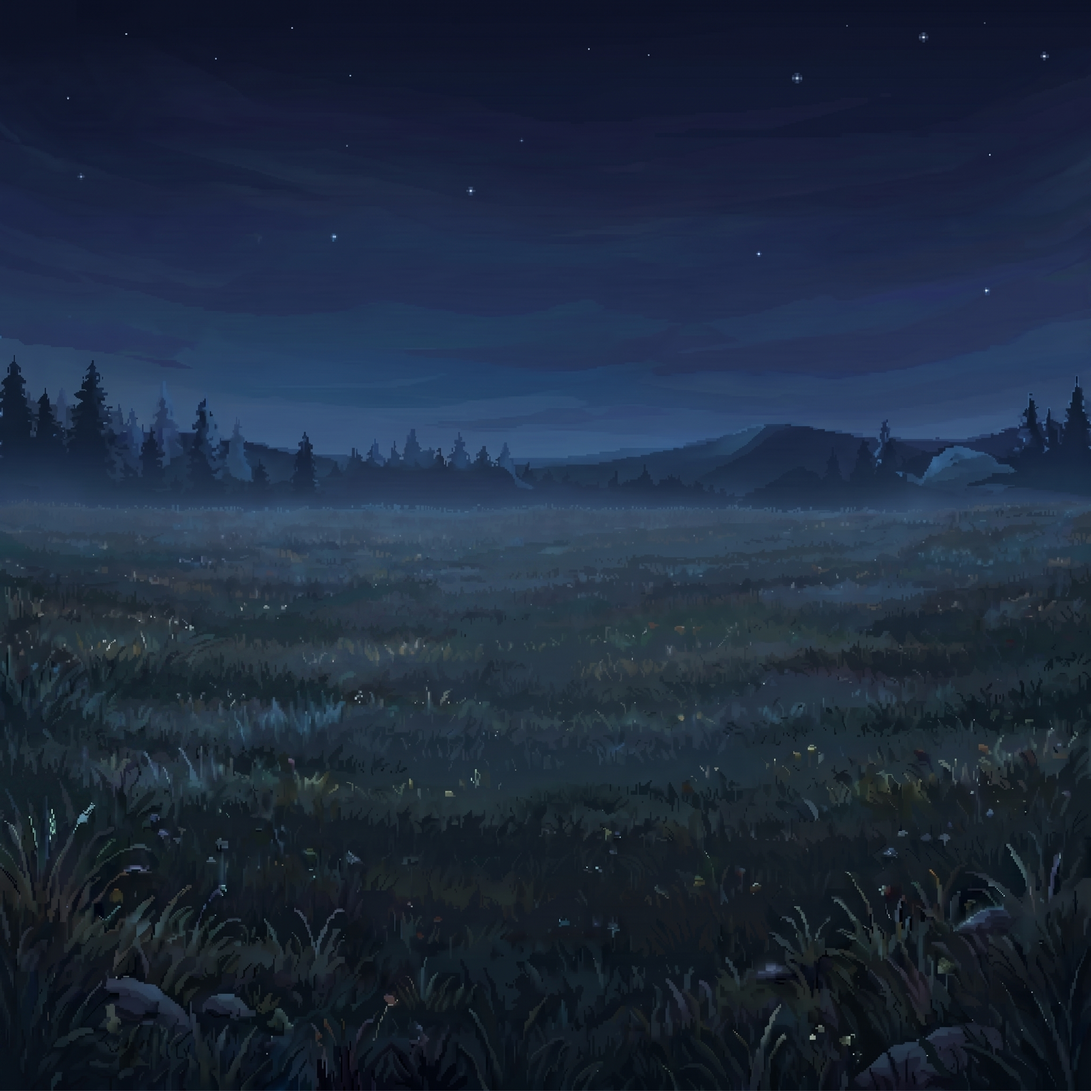
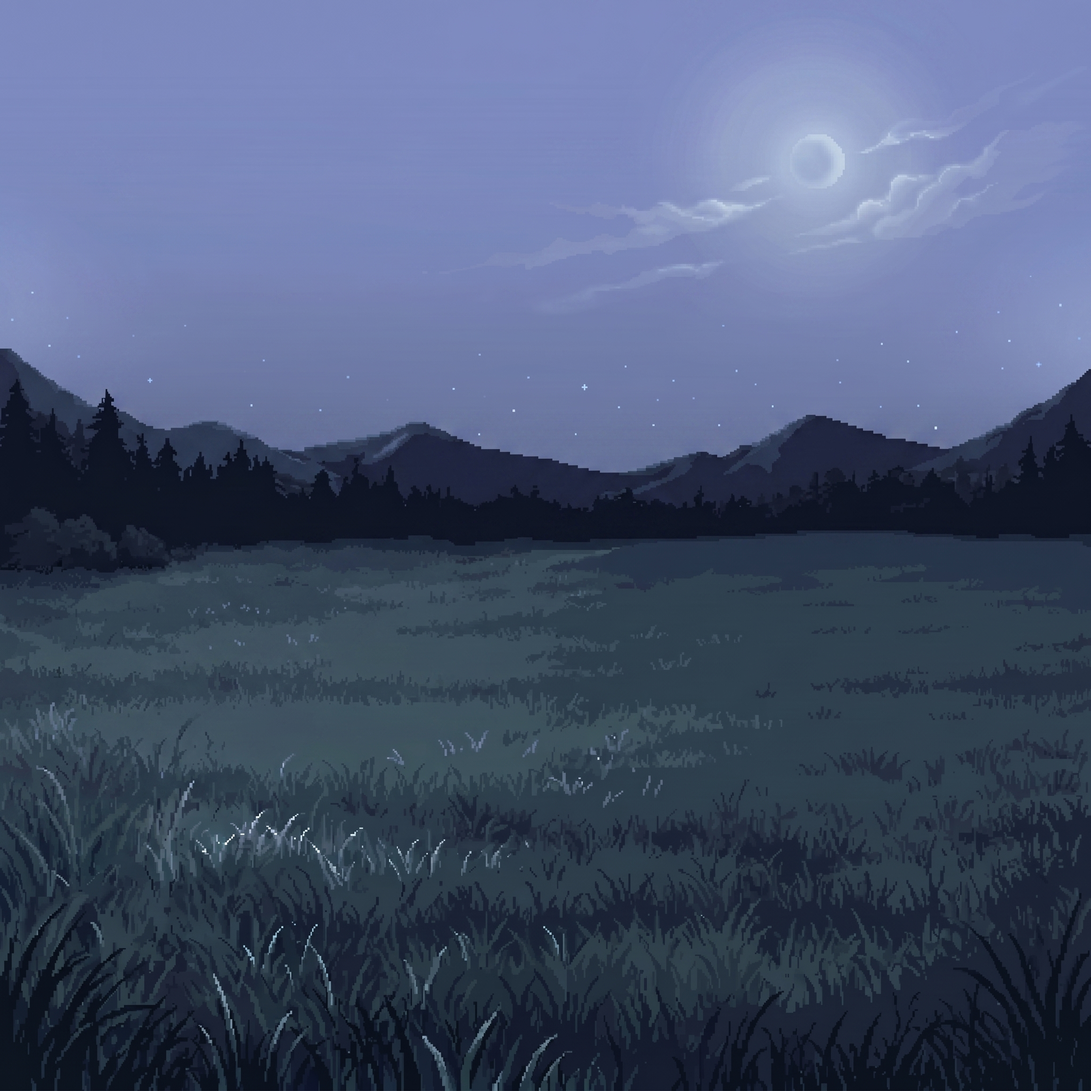
feat(game): add battle backgrounds and solar-phase scene assets
Battle and existing scene backgrounds keyed to solar phase, with refreshed night art and title scene wiring.

diff --git a/vibemon/frontend/src/lib/domains/game/solarPhase.ts b/vibemon/frontend/src/lib/domains/game/solarPhase.ts
@@ -1,4 +1,9 @@
-/** Local solar phase from coordinates — mirrors backend BirthSeed.solar_phase (UTC timezone). */
+/**
+ * Live, UI-only solar phase for scene-background ambiance — computed from the player's
+ * current time and coordinates. Dawn/dusk are intentionally widened to the golden hours so
+ * crepuscular backgrounds appear earlier; this is distinct from the backend birth-instant
+ * phase used for mon generation and is not meant to mirror it.
+ */
 
 import SunCalc from 'suncalc';
 
@@ -30,7 +35,11 @@ function isValidTime(value: Date): boolean {
 	return Number.isFinite(value.getTime());
 }
 
-/** Resolve solar phase at `at` for `coords`. Uses UTC bands to match backend BirthSeed defaults. */
+/**
+ * Resolve the display solar phase at `at` for `coords`. Dawn spans civil dawn through the
+ * morning golden hour, dusk spans the evening golden hour through civil dusk — so twilight
+ * backgrounds show earlier than the bare sunrise/sunset boundaries.
+ */
 export function resolveSolarPhase(
 	coords: GeoCoordinates | null | undefined,
 	at: Date = new Date()
@@ -38,14 +47,19 @@ export function resolveSolarPhase(
 	if (!coords) return DEFAULT_SOLAR_PHASE;
 
 	const times = SunCalc.getTimes(at, coords.latitude, coords.longitude);
-	if (!isValidTime(times.dawn) || !isValidTime(times.sunrise) || !isValidTime(times.sunset) || !isValidTime(times.dusk)) {
+	if (
+		!isValidTime(times.dawn) ||
+		!isValidTime(times.goldenHourEnd) ||
+		!isValidTime(times.goldenHour) ||
+		!isValidTime(times.dusk)
+	) {
 		return polarFallback(coords.latitude);
 	}
 
 	const instant = at.getTime();
 	if (instant < times.dawn.getTime()) return 'night';
-	if (instant < times.sunrise.getTime()) return 'dawn';
-	if (instant < times.sunset.getTime()) return 'day';
+	if (instant < times.goldenHourEnd.getTime()) return 'dawn';
+	if (instant < times.goldenHour.getTime()) return 'day';
 	if (instant < times.dusk.getTime()) return 'dusk';
 	return 'night';
 }

diff --git a/vibemon/frontend/src/lib/domains/game/gameSolarContext.svelte.ts b/vibemon/frontend/src/lib/domains/game/gameSolarContext.svelte.ts
@@ -22,6 +22,15 @@ export const gameSolarContext = $state({
 	phase: DEFAULT_SOLAR_PHASE as SolarPhase
 });
 
+/** False until mount — keeps SSR and hydration on DEFAULT_SOLAR_PHASE, then crossfades to live phase. */
+let scenePhaseReady = $state(false);
+
+/** Phase for scene backdrops — stable across SSR/hydration, then live after mount. */
+export function sceneSolarPhase(): SolarPhase {
+	if (!scenePhaseReady) return DEFAULT_SOLAR_PHASE;
+	return gameSolarContext.phase;
+}
+
 export function syncGameSolarCoordinates(coords: TrainerCoordinates | null = readStoredTrainerCoordinates()) {
 	gameSolarContext.coordinates = coords;
 }
@@ -37,23 +46,25 @@ export function refreshGameSolarPhase(at: Date = new Date()) {
 }
 
 export function applyGameSolarDevOverride(searchParams: URLSearchParams) {
-	const phase = parseSolarPhase(searchParams.get('solar-phase'));
-	if (!phase) return;
-	setGameSolarOverride(phase);
+	setGameSolarOverride(parseSolarPhase(searchParams.get('solar-phase')));
 	refreshGameSolarPhase();
 }
 
 let refreshTimer: ReturnType<typeof setInterval> | undefined;
 
 export function startGameSolarClock() {
-	if (!browser || refreshTimer) return;
-	syncGameSolarCoordinates();
-	refreshGameSolarPhase();
-	refreshTimer = setInterval(() => refreshGameSolarPhase(), PHASE_REFRESH_MS);
+	if (!browser) return;
+	if (!refreshTimer) {
+		syncGameSolarCoordinates();
+		refreshGameSolarPhase();
+		refreshTimer = setInterval(() => refreshGameSolarPhase(), PHASE_REFRESH_MS);
+	}
+	scenePhaseReady = true;
 }
 
 export function stopGameSolarClock() {
 	if (!refreshTimer) return;
 	clearInterval(refreshTimer);
 	refreshTimer = undefined;
+	scenePhaseReady = false;
 }

diff --git a/vibemon/frontend/src/lib/domains/game/solarPhase.test.ts b/vibemon/frontend/src/lib/domains/game/solarPhase.test.ts
@@ -1,6 +1,14 @@
+import SunCalc from 'suncalc';
 import { describe, expect, it } from 'vitest';
 
 import { parseSolarPhase, resolveSolarPhase } from './solarPhase';
+
+const EQUATOR = { latitude: 0, longitude: 0 };
+
+/** Midpoint instant strictly between two boundary times. */
+function midpoint(a: Date, b: Date): Date {
+	return new Date((a.getTime() + b.getTime()) / 2);
+}
 
 describe('parseSolarPhase', () => {
 	it('accepts known phases case-insensitively', () => {
@@ -27,5 +35,22 @@ describe('resolveSolarPhase', () => {
 	it('returns night at high-latitude winter midnight UTC', () => {
 		const at = new Date('2026-12-21T00:00:00.000Z');
 		expect(resolveSolarPhase({ latitude: 72, longitude: 0 }, at)).toBe('night');
+	});
+
+	it('widens dawn through the morning golden hour', () => {
+		const times = SunCalc.getTimes(new Date('2026-06-21T12:00:00.000Z'), EQUATOR.latitude, EQUATOR.longitude);
+		const at = midpoint(times.sunrise, times.goldenHourEnd);
+		expect(resolveSolarPhase(EQUATOR, at)).toBe('dawn');
+	});
+
+	it('widens dusk to begin at the evening golden hour', () => {
+		const times = SunCalc.getTimes(new Date('2026-06-21T12:00:00.000Z'), EQUATOR.latitude, EQUATOR.longitude);
+		const at = midpoint(times.goldenHour, times.sunset);
+		expect(resolveSolarPhase(EQUATOR, at)).toBe('dusk');
+	});
+
+	it('keeps deep night night', () => {
+		const at = new Date('2026-06-21T00:00:00.000Z');
+		expect(resolveSolarPhase(EQUATOR, at)).toBe('night');
 	});
 });

diff --git a/vibemon/frontend/src/lib/domains/title/TitleScene.svelte b/vibemon/frontend/src/lib/domains/title/TitleScene.svelte
@@ -2,7 +2,7 @@
 	import { goto } from '$app/navigation';
 	import { onMount } from 'svelte';
 
-	import { gameSolarContext } from '$lib/domains/game/gameSolarContext.svelte';
+	import { sceneSolarPhase } from '$lib/domains/game/gameSolarContext.svelte';
 	import { sceneBackgroundSrc } from '$lib/domains/game/sceneBackgrounds';
 	import GameButton from '$lib/ui/GameButton.svelte';
 	import GamePanel from '$lib/ui/GamePanel.svelte';
@@ -28,10 +28,9 @@
 
 	let selectedIndex = $state(0);
 	let grassMons = $state<Array<(typeof TITLE_MON_SLOTS)[number] & { spriteSrc: string }>>([]);
-	let backgroundSrc = $derived(sceneBackgroundSrc('title', gameSolarContext.phase));
-	let logoLit = $derived(
-		gameSolarContext.phase === 'night' || gameSolarContext.phase === 'dusk'
-	);
+	let solarPhase = $derived(sceneSolarPhase());
+	let backgroundSrc = $derived(sceneBackgroundSrc('title', solarPhase));
+	let logoLit = $derived(solarPhase === 'night' || solarPhase === 'dusk');
 
 	function enabledMenuIndexes(): number[] {
 		return MENU_ITEMS.map((item, index) => (item.disabled ? -1 : index)).filter((index) => index >= 0);

diff --git a/vibemon/frontend/src/lib/domains/game/sceneBackgrounds.test.ts b/vibemon/frontend/src/lib/domains/game/sceneBackgrounds.test.ts
@@ -8,6 +8,7 @@ describe('sceneBackgroundSrc', () => {
 		expect(sceneBackgroundSrc('hatch', 'dawn')).toBe('/game/backgrounds/hatch.png');
 		expect(sceneBackgroundSrc('register', 'dawn')).toBe('/game/backgrounds/register.png');
 		expect(sceneBackgroundSrc('crew-showcase', 'day')).toBe('/game/backgrounds/crew-showcase.png');
+		expect(sceneBackgroundSrc('battle', 'day')).toBe('/game/backgrounds/battle.png');
 	});
 
 	it('uses phase suffixes for non-canonical variants', () => {
@@ -17,6 +18,9 @@ describe('sceneBackgroundSrc', () => {
 		expect(sceneBackgroundSrc('crew-showcase', 'dusk')).toBe(
 			'/game/backgrounds/crew-showcase--dusk.png'
 		);
+		expect(sceneBackgroundSrc('battle', 'dawn')).toBe('/game/backgrounds/battle--dawn.png');
+		expect(sceneBackgroundSrc('battle', 'dusk')).toBe('/game/backgrounds/battle--dusk.png');
+		expect(sceneBackgroundSrc('battle', 'night')).toBe('/game/backgrounds/battle--night.png');
 	});
 });
 

diff --git a/vibemon/frontend/src/lib/domains/game/sceneBackgrounds.ts b/vibemon/frontend/src/lib/domains/game/sceneBackgrounds.ts
@@ -1,13 +1,14 @@
 import { type SolarPhase } from './solarPhase';
 
-export type SceneBackgroundId = 'title' | 'register' | 'hatch' | 'crew-showcase';
+export type SceneBackgroundId = 'title' | 'register' | 'hatch' | 'crew-showcase' | 'battle';
 
 /** Canonical phase each scene was authored for — used as legacy single-file fallback. */
 export const SCENE_CANONICAL_PHASE: Record<SceneBackgroundId, SolarPhase> = {
 	title: 'day',
 	register: 'dawn',
 	hatch: 'dawn',
-	'crew-showcase': 'day'
+	'crew-showcase': 'day',
+	battle: 'day'
 };
 
 export function sceneBackgroundAsset(scene: SceneBackgroundId, phase: SolarPhase): string {
